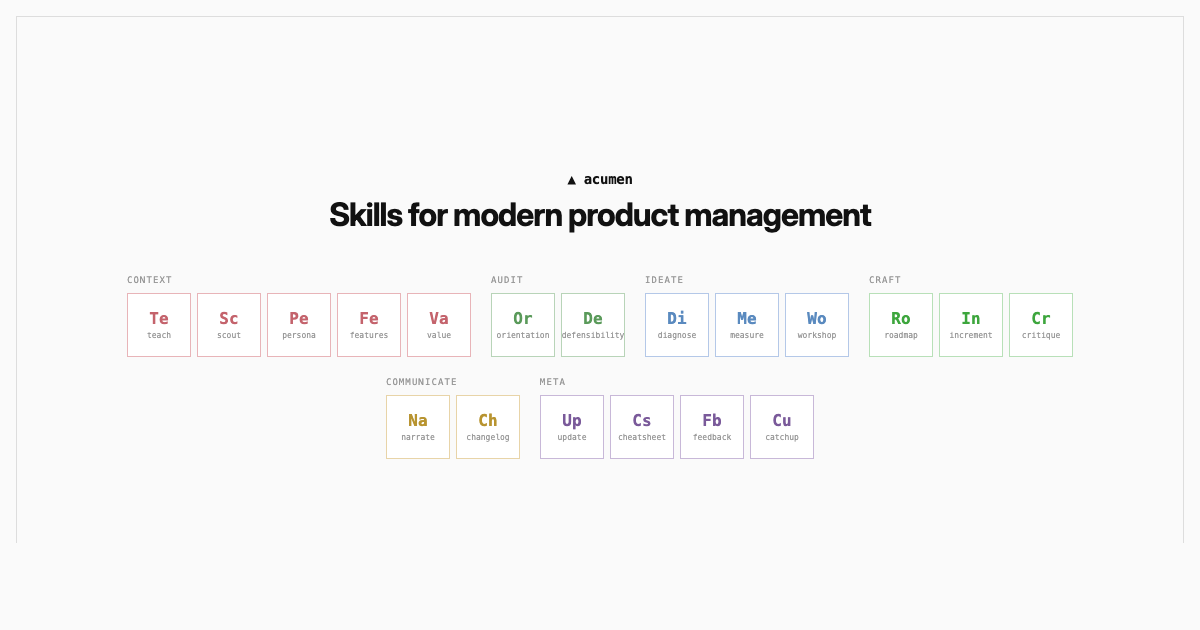
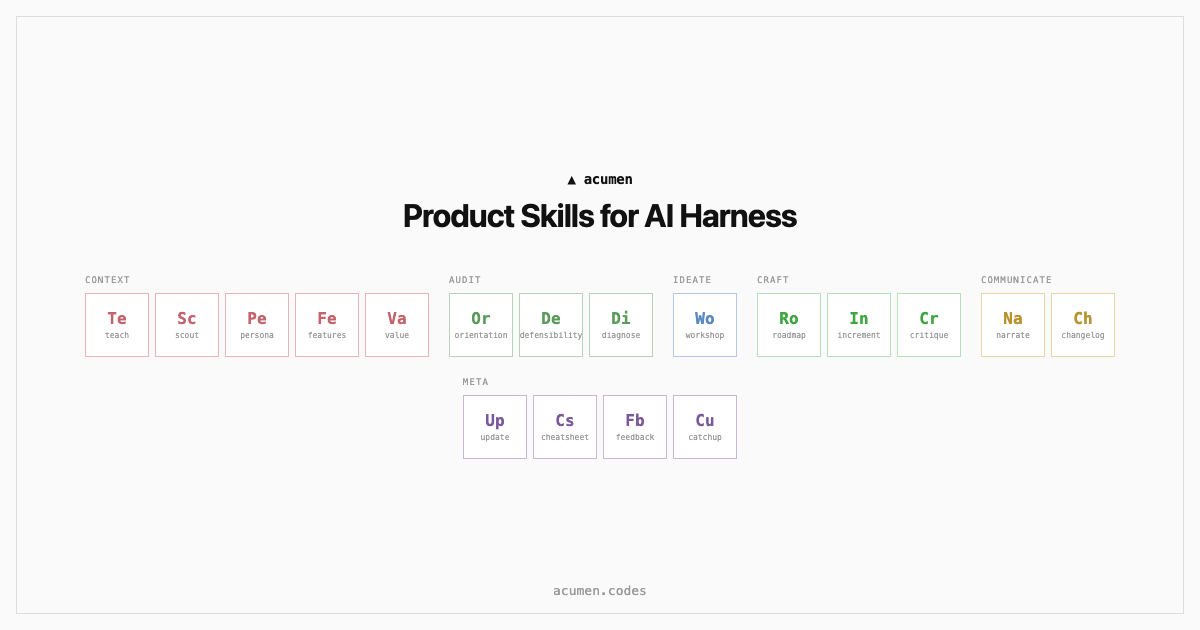
Point canonical and social tags at acumen.codes (#53)
acumen.tools no longer belongs to Acumen. Canonical, og:url and the
og/twitter image URLs now use https://www.acumen.codes/, and the OG card
is re-rendered with the right domain and current skill list.

diff --git a/index.html b/index.html
@@ -8,15 +8,15 @@
   <meta property="og:title" content="Acumen: product skills for your coding agent">
   <meta property="og:description" content="Diagnose, scope and ship product work from the codebase. 19 open source skills for Claude Code, Cursor, Codex and more.">
   <meta property="og:type" content="website">
-  <meta property="og:url" content="https://acumen.tools/">
-  <meta property="og:image" content="https://acumen.tools/images/og-card.png">
+  <meta property="og:url" content="https://www.acumen.codes/">
+  <meta property="og:image" content="https://www.acumen.codes/images/og-card.png">
   <meta property="og:image:width" content="1200">
   <meta property="og:image:height" content="630">
   <meta name="twitter:card" content="summary_large_image">
   <meta name="twitter:title" content="Acumen: product skills for your coding agent">
   <meta name="twitter:description" content="Diagnose, scope and ship product work from the codebase. 19 open source skills for Claude Code, Cursor, Codex and more.">
-  <meta name="twitter:image" content="https://acumen.tools/images/og-card.png">
-  <link rel="canonical" href="https://acumen.tools/">
+  <meta name="twitter:image" content="https://www.acumen.codes/images/og-card.png">
+  <link rel="canonical" href="https://www.acumen.codes/">
   <link rel="preconnect" href="https://fonts.googleapis.com">
   <link rel="preconnect" href="https://fonts.gstatic.com" crossorigin>
   <link href="https://fonts.googleapis.com/css2?family=Geist:wght@400;500;600;700&family=Geist+Mono:wght@400;500;600&display=swap" rel="stylesheet">

diff --git a/images/og-card.html b/images/og-card.html
@@ -192,7 +192,7 @@
       </div>
     </div>
 
-    <div class="url">acumen.tools</div>
+    <div class="url">acumen.codes</div>
   </div>
 </body>
 </html>
